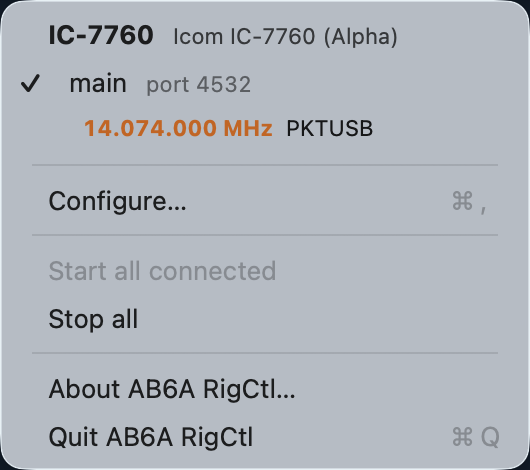
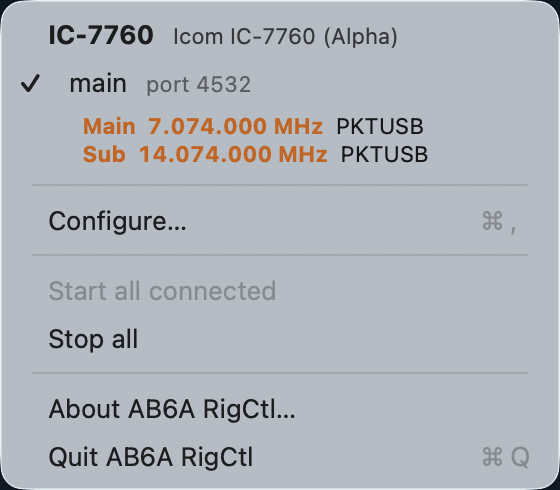
Show both receivers in the site screenshot
The hero image showed a single frequency, from before a daemon could name the
receiver it reports. Recaptured with one daemon reporting Main and Sub, and the
worked example now says a second daemon is not needed just to see the second
receiver.

Claude-Session: https://claude.ai/code/session_01JBrUeBQkPmRABKaMhT9zgK

diff --git a/docs/index.html b/docs/index.html
@@ -111,11 +111,11 @@
        <span style="font-size:13px">Requires <a href="https://hamlib.sourceforge.net/" style="color:var(--accent);text-decoration:none">Hamlib</a> &mdash; <code>brew install hamlib</code></span></p>
 
     <div class="demo">
-      <img src="menu.png" alt="The AB6A RigCtl menu, showing an IC-7760 with a running daemon on port 4532 reading 21.074.000 MHz"
+      <img src="menu.png" alt="The AB6A RigCtl menu, showing an IC-7760 with one daemon reporting both receivers: Main on 7.074 and Sub on 14.074"
            style="width:265px;border-radius:12px;box-shadow:0 24px 60px rgba(0,0,0,.55);
                   border:1px solid var(--line)">
     </div>
-    <p class="caption">Live frequency and mode, straight from the running daemon.</p>
+    <p class="caption">One daemon, both receivers &mdash; live from the rig.</p>
   </div>
 </header>
 

diff --git a/README.md b/README.md
@@ -70,7 +70,11 @@ Click the menu bar icon:
 
 <img src="docs/config.png" width="620" alt="The Devices window: an IC-7760 with its type, model, baud and each interface assignable to a TCP port">
 
-Each daemon has a toggle. **Configure…** is where you name a device, pick its type,
+Each daemon has a toggle, and a daemon can report a named receiver — set one to
+**Main and Sub** and a dual-receive radio shows both frequencies over a single
+connection.
+
+**Configure…** is where you name a device, pick its type,
 its Hamlib model, baud rate and CI-V address, choose which of its interfaces
 carry a daemon, and set each daemon's TCP port.
 
